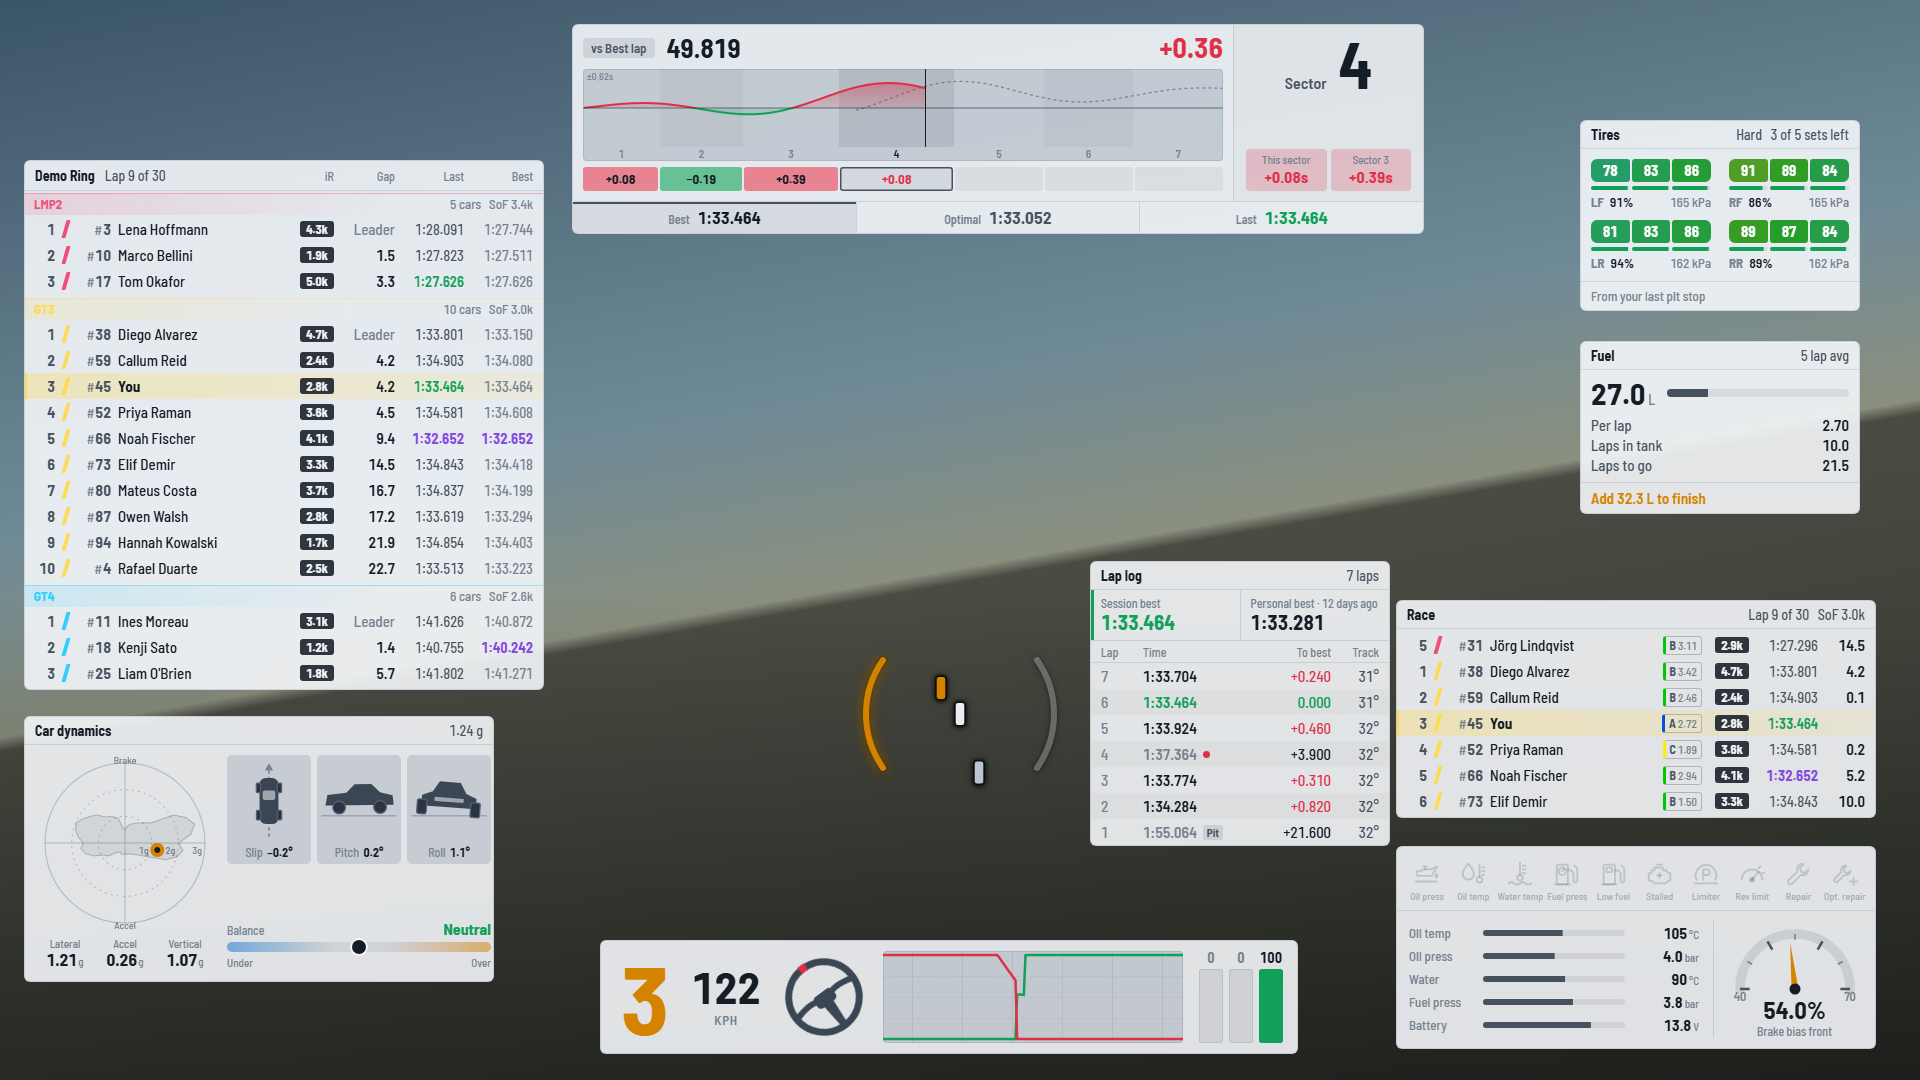
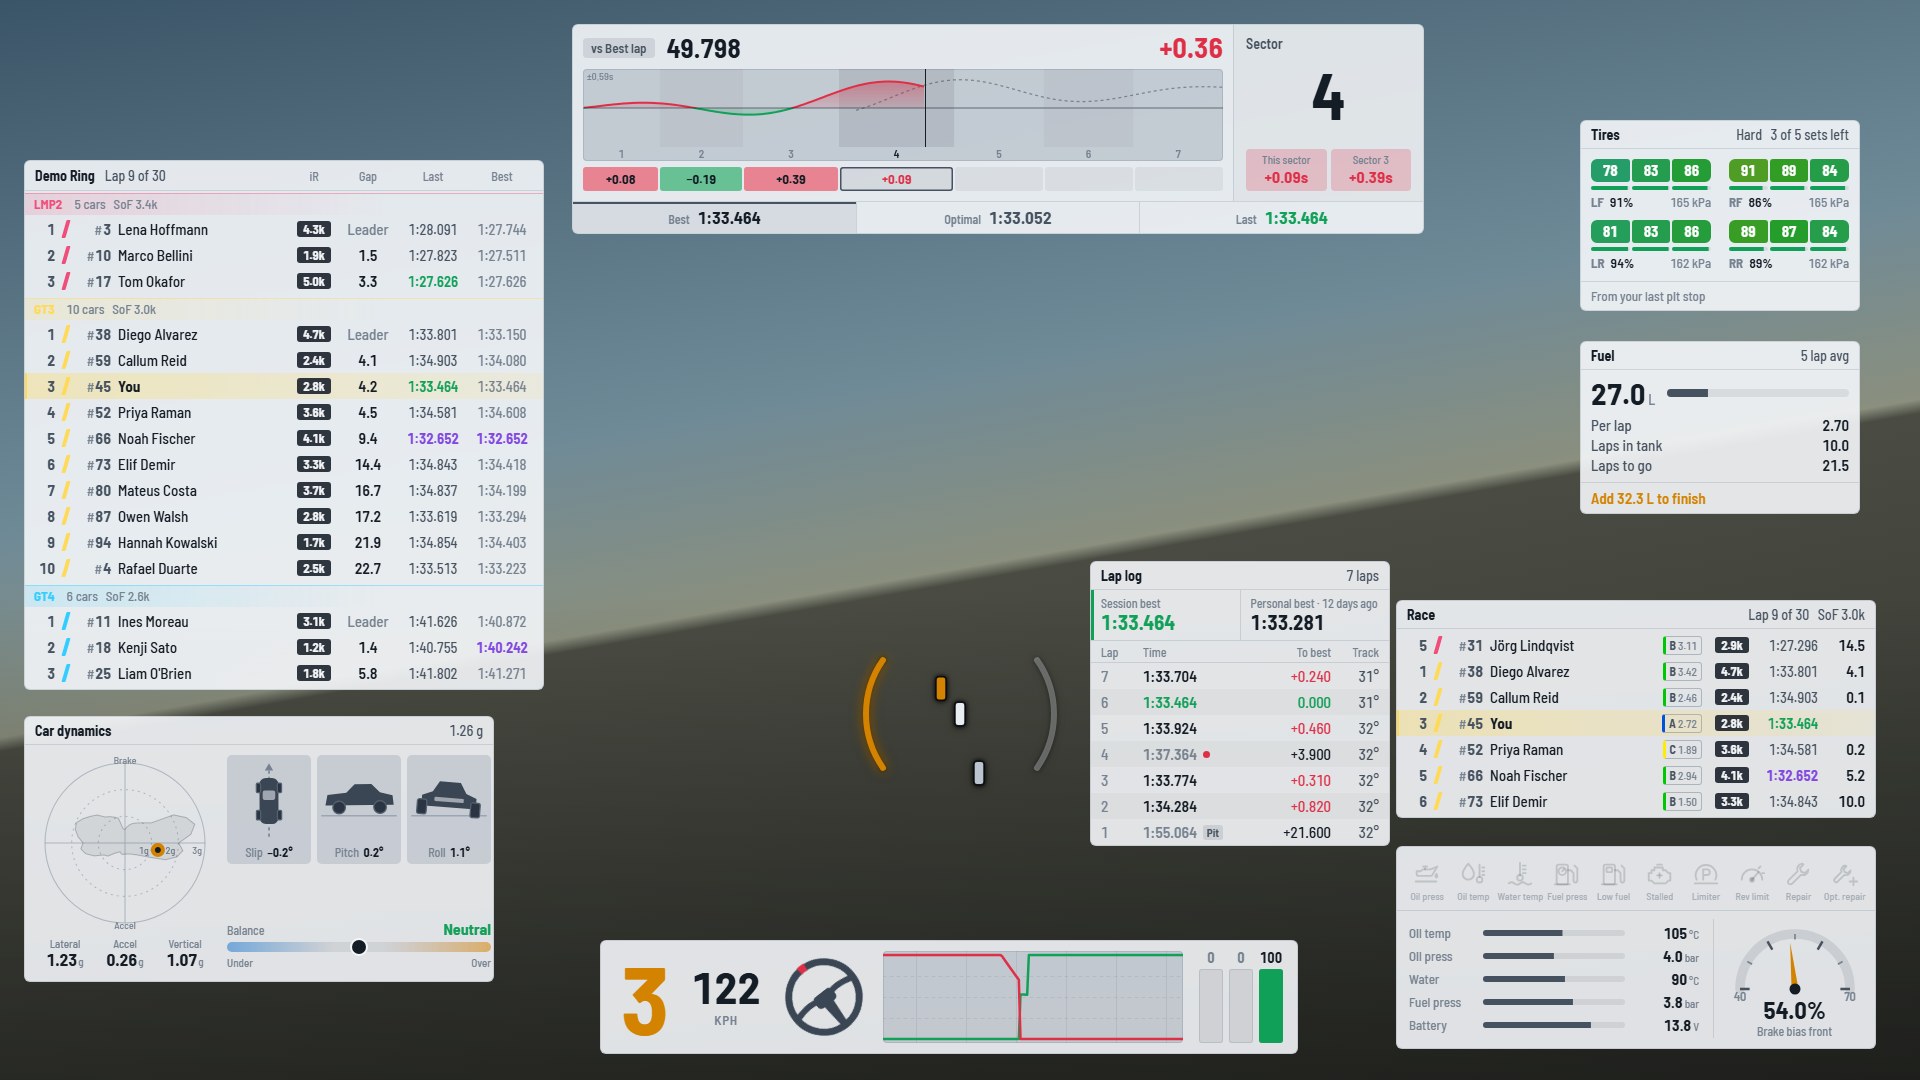
Tidy the Standings columns and the Delta sector panel
Standings column labels and their values now share a center line, and
each class header puts its car count and SoF right after the class
name. In the Delta panel, "Sector" sits in the top-left with the number
centered below it. README screenshots retaken to match.

diff --git a/src/styles/overlay.css b/src/styles/overlay.css
@@ -417,7 +417,7 @@
 }
 .class-head {
   display: flex;
-  justify-content: space-between;
+  gap: 12px;
   align-items: baseline;
   height: 22px;
   margin: 2px 0 1px;
@@ -553,6 +553,15 @@
 
 .standings {
   width: 520px;
+}
+/* Labels and their numbers share a center line. */
+.standings .row-head > span:not(.row-head-title),
+.standings .gap,
+.standings .time {
+  text-align: center;
+}
+.standings .ir {
+  justify-self: center;
 }
 
 /* ---------- Inputs (driver HUD strip) ---------------------------------------- */
@@ -1365,14 +1374,19 @@
   border-left: 1px solid var(--line);
   background: color-mix(in srgb, var(--ink) 3%, transparent);
 }
+/* "Sector" in the corner, the number centered in the space above the splits. */
 .ds-side-sector {
-  display: flex;
-  align-items: baseline;
-  justify-content: center;
-  gap: 12px;
+  position: relative;
+  flex: 1;
+  display: grid;
+  place-items: center;
+  padding-top: 12px;
 }
 .ds-side-label {
-  font-size: 16px;
+  position: absolute;
+  top: 0;
+  left: 0;
+  font-size: 14px;
   font-weight: 600;
   color: var(--ink-2);
 }
@@ -1382,6 +1396,7 @@
   line-height: 0.9;
 }
 .ds-side-splits {
+  margin-top: 6px;
   display: grid;
   grid-template-columns: 1fr 1fr;
   gap: 4px;
